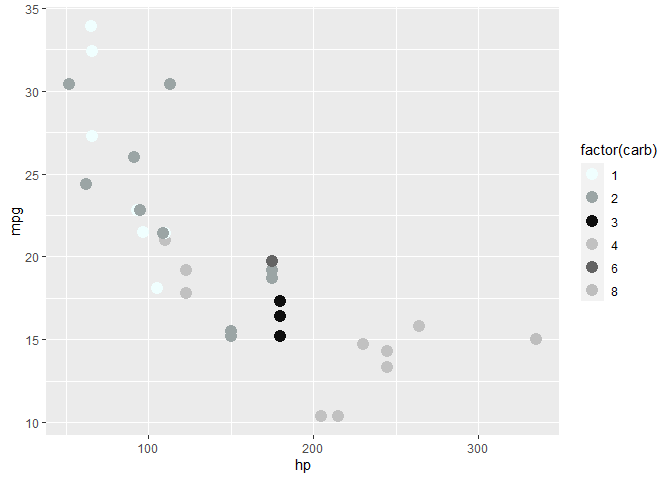
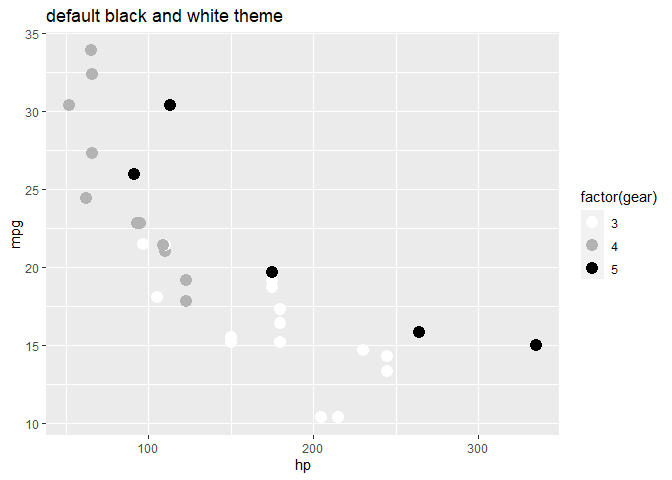
update

diff --git a/README.md b/README.md
@@ -19,9 +19,12 @@ devtools::install_github("arthur1timmermans/fiftyshadesofgrey")
 library(fiftyshadesofgrey)
 ```
 
+it is also required to install the following packages to further use
+this demo: tidyverse readXL here
+
 ## Example
 
-here is an example of how a black and white graph can look:
+Down bellow, all different color pallets are displayed
 
 ``` r
 library(fiftyshadesofgrey)
@@ -36,8 +39,89 @@ library(tidyverse)
 #> x dplyr::lag()    masks stats::lag()
 
 ggplot(mtcars, aes(hp, mpg)) +
-geom_point(aes(color = factor(carb)), size = 4) +
-color_pallete_blackwhite()
+geom_point(aes(color = factor(gear)), size = 4) +
+color_pallete_blackwhite() + 
+  labs(title = "default black and white theme")
 ```
 
 <img src="man/figures/README-example-1.png" width="100%" />
+
+``` r
+
+ggplot(mtcars, aes(hp, mpg)) +
+geom_point(aes(color = factor(gear)), size = 4) +
+color_pallete_blackwhite(palette = "snow") + 
+  labs(title = "snow theme")
+```
+
+<img src="man/figures/README-example-2.png" width="100%" />
+
+``` r
+
+ggplot(mtcars, aes(hp, mpg)) +
+geom_point(aes(color = factor(gear)), size = 4) +
+color_pallete_blackwhite(palette = "azure") + 
+  labs(title = "azure theme")
+```
+
+<img src="man/figures/README-example-3.png" width="100%" />
+
+``` r
+
+ggplot(mtcars, aes(hp, mpg)) +
+geom_point(aes(color = factor(gear)), size = 4) +
+color_pallete_blackwhite(palette = "seashell") + 
+  labs(title = "seashell theme")
+```
+
+<img src="man/figures/README-example-4.png" width="100%" />
+
+``` r
+
+ggplot(mtcars, aes(hp, mpg)) +
+geom_point(aes(color = factor(gear)), size = 4) +
+color_pallete_blackwhite(palette = "lavenderblush") + 
+  labs(title = "lavenderblush theme")
+```
+
+<img src="man/figures/README-example-5.png" width="100%" />
+
+``` r
+
+ggplot(mtcars, aes(hp, mpg)) +
+geom_point(aes(color = factor(gear)), size = 4) +
+color_pallete_blackwhite(palette = "ivory") + 
+  labs(title = "ivory theme")
+```
+
+<img src="man/figures/README-example-6.png" width="100%" />
+
+``` r
+
+ggplot(mtcars, aes(hp, mpg)) +
+geom_point(aes(color = factor(gear)), size = 4) +
+color_pallete_blackwhite(palette = "honeydew") + 
+  labs(title = "honeydew theme")
+```
+
+<img src="man/figures/README-example-7.png" width="100%" />
+
+``` r
+
+ggplot(mtcars, aes(hp, mpg)) +
+geom_point(aes(color = factor(gear)), size = 4) +
+color_pallete_blackwhite(palette = "gray") + 
+  labs(title = "gray theme")
+```
+
+<img src="man/figures/README-example-8.png" width="100%" />
+
+``` r
+
+ggplot(mtcars, aes(hp, mpg)) +
+geom_point(aes(color = factor(gear)), size = 4) +
+color_pallete_blackwhite(palette = "grey") + 
+  labs(title = "grey theme")
+```
+
+<img src="man/figures/README-example-9.png" width="100%" />
